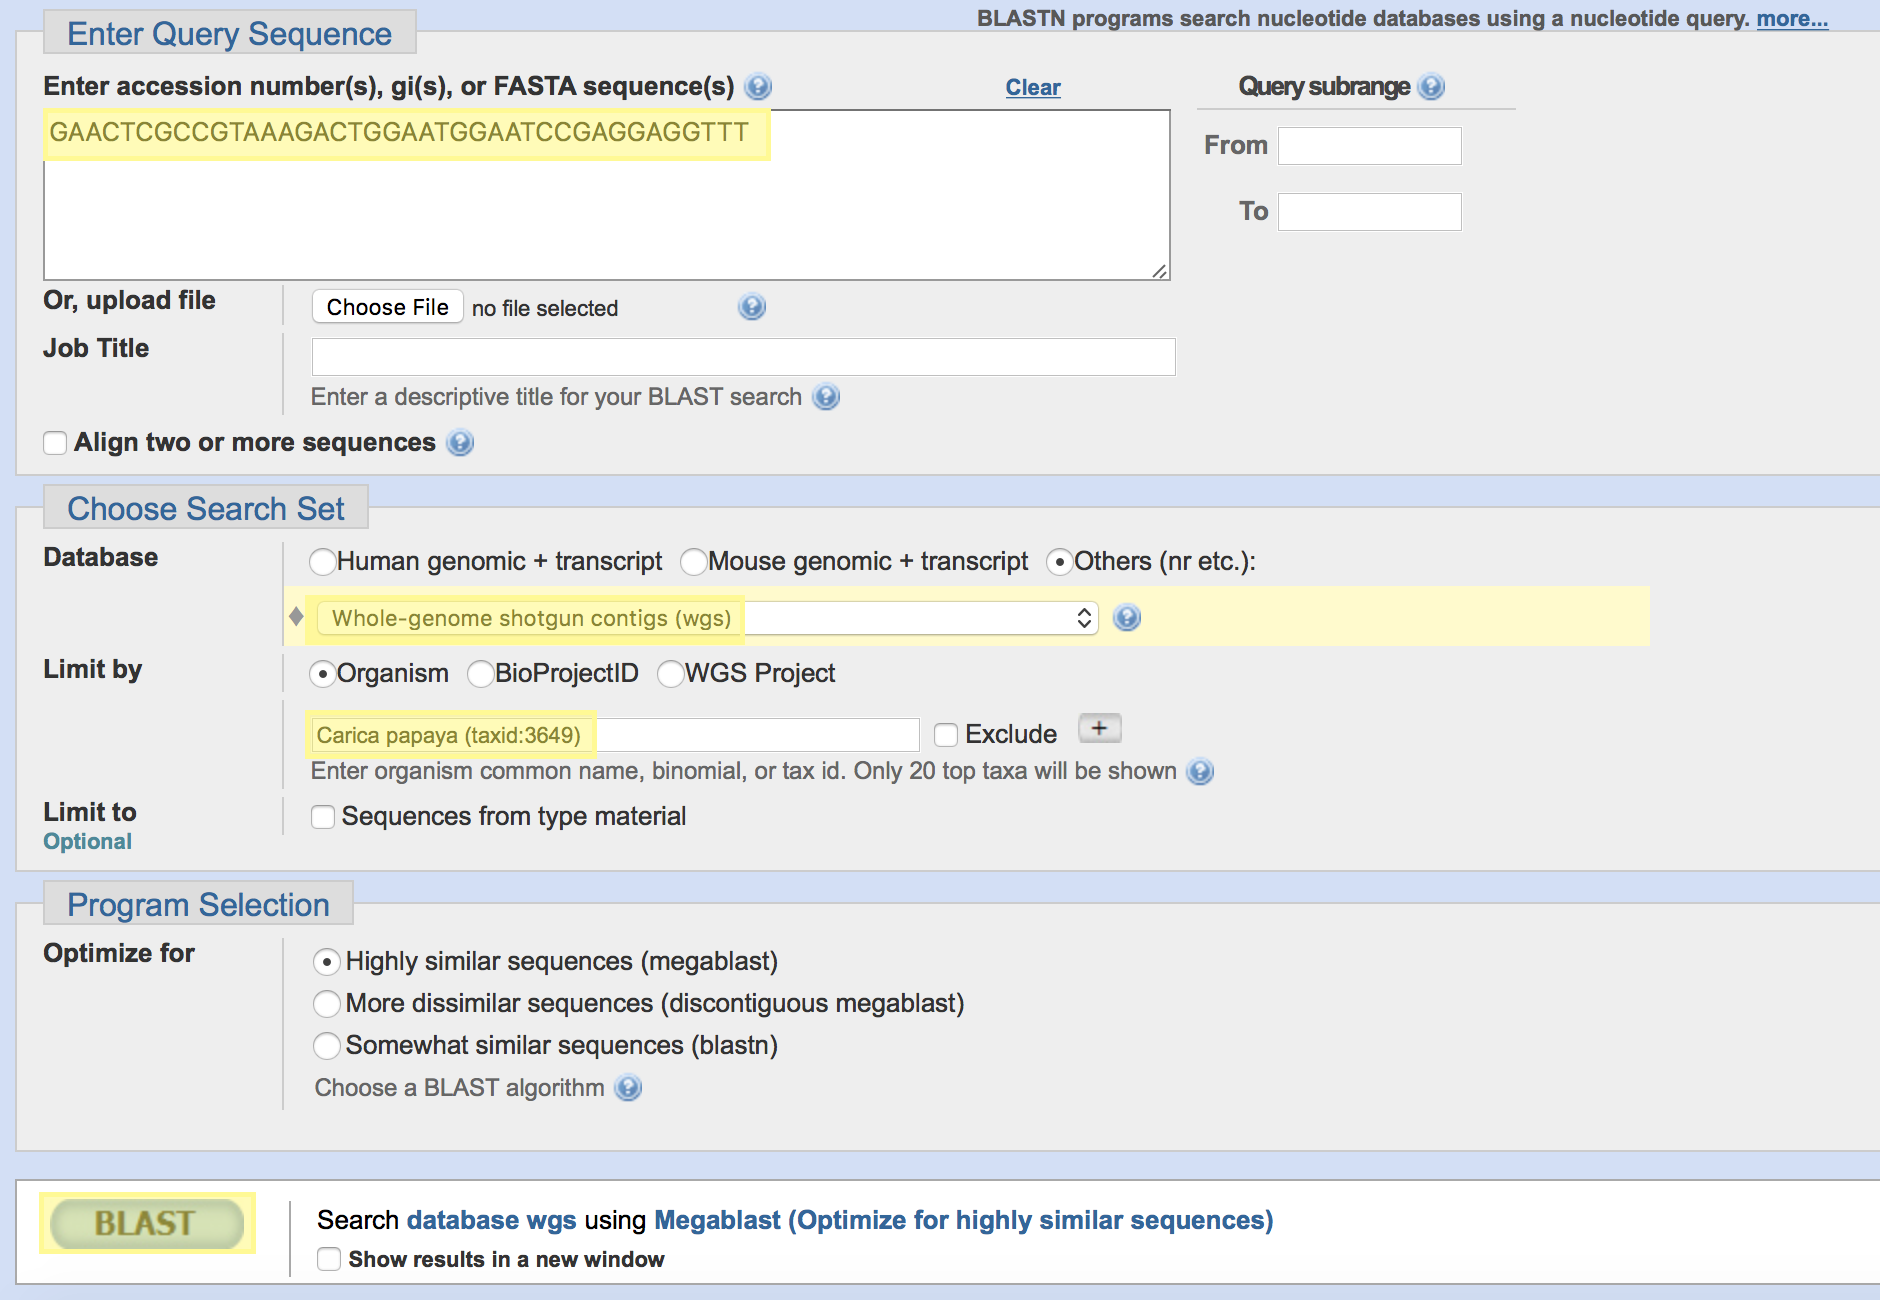
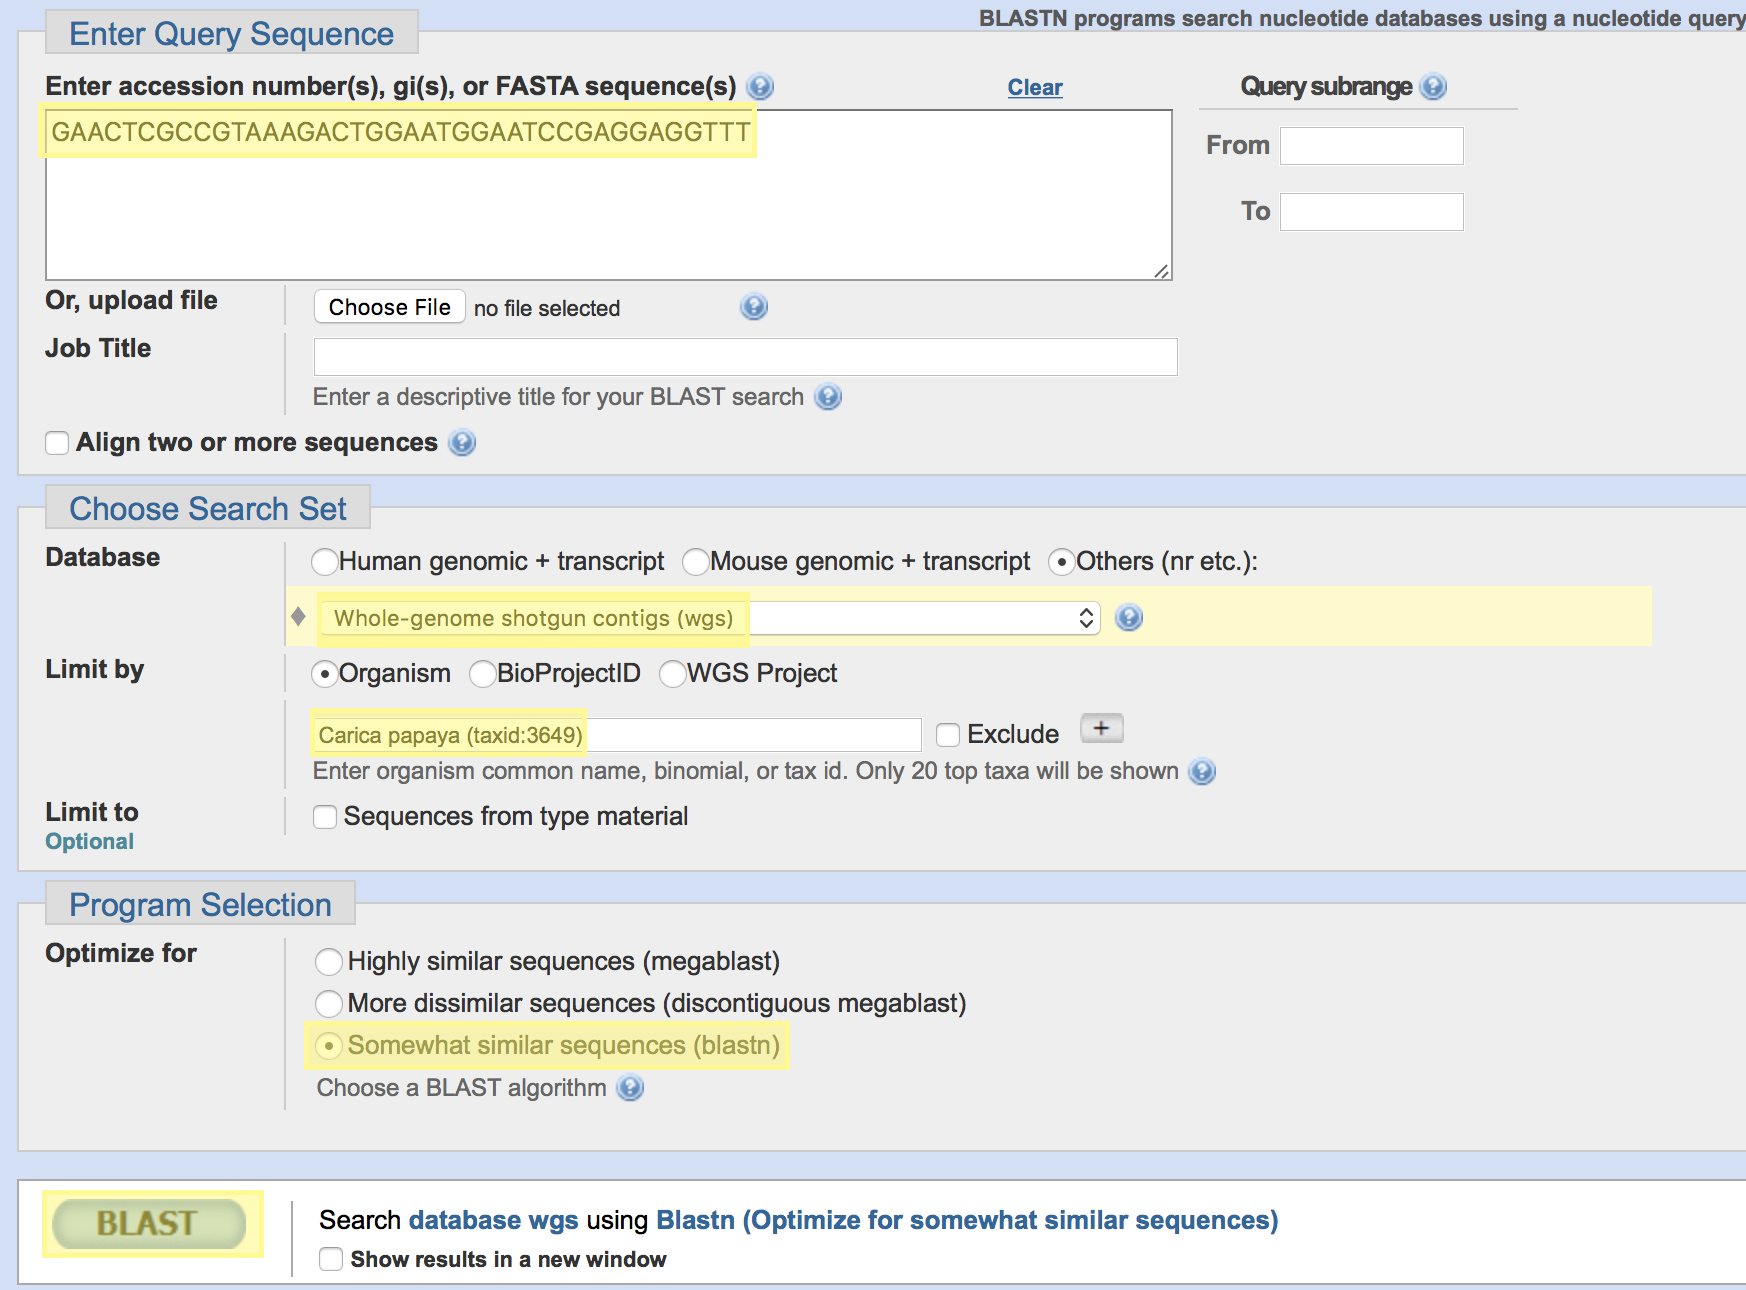
Initial Commit

diff --git a/README.md b/README.md
@@ -510,7 +510,7 @@ This will return a list of primers. Choose the primers from the top and copy and
 </kbd>
 </p>
 
-Next, return to [BLAST](https://blast.ncbi.nlm.nih.gov/Blast.cgi?PROGRAM=blastn&PAGE_TYPE=BlastSearch&LINK_LOC=blasthome) and run a a nucleotide-to-nucleotide search using `blastn`. Paste your primer into the query sequence area. Next, change the database to search against to whole genome shotgun contigs. Finally, set your organism to *Carica papaya*. BLAST away! 
+Next, return to [BLAST](https://blast.ncbi.nlm.nih.gov/Blast.cgi?PROGRAM=blastn&PAGE_TYPE=BlastSearch&LINK_LOC=blasthome) and run a a nucleotide-to-nucleotide search using `blastn`. Paste your primer into the query sequence area. Next, change the database to search against to whole genome shotgun contigs. After that, under Program Selection, make sure set the option to "somewhat similar sequences". Finally, set your organism to *Carica papaya*. BLAST away! 
 
 **Note**: I have extracted just the nucleotide sequence from the primer results above and concatenated.  
 
